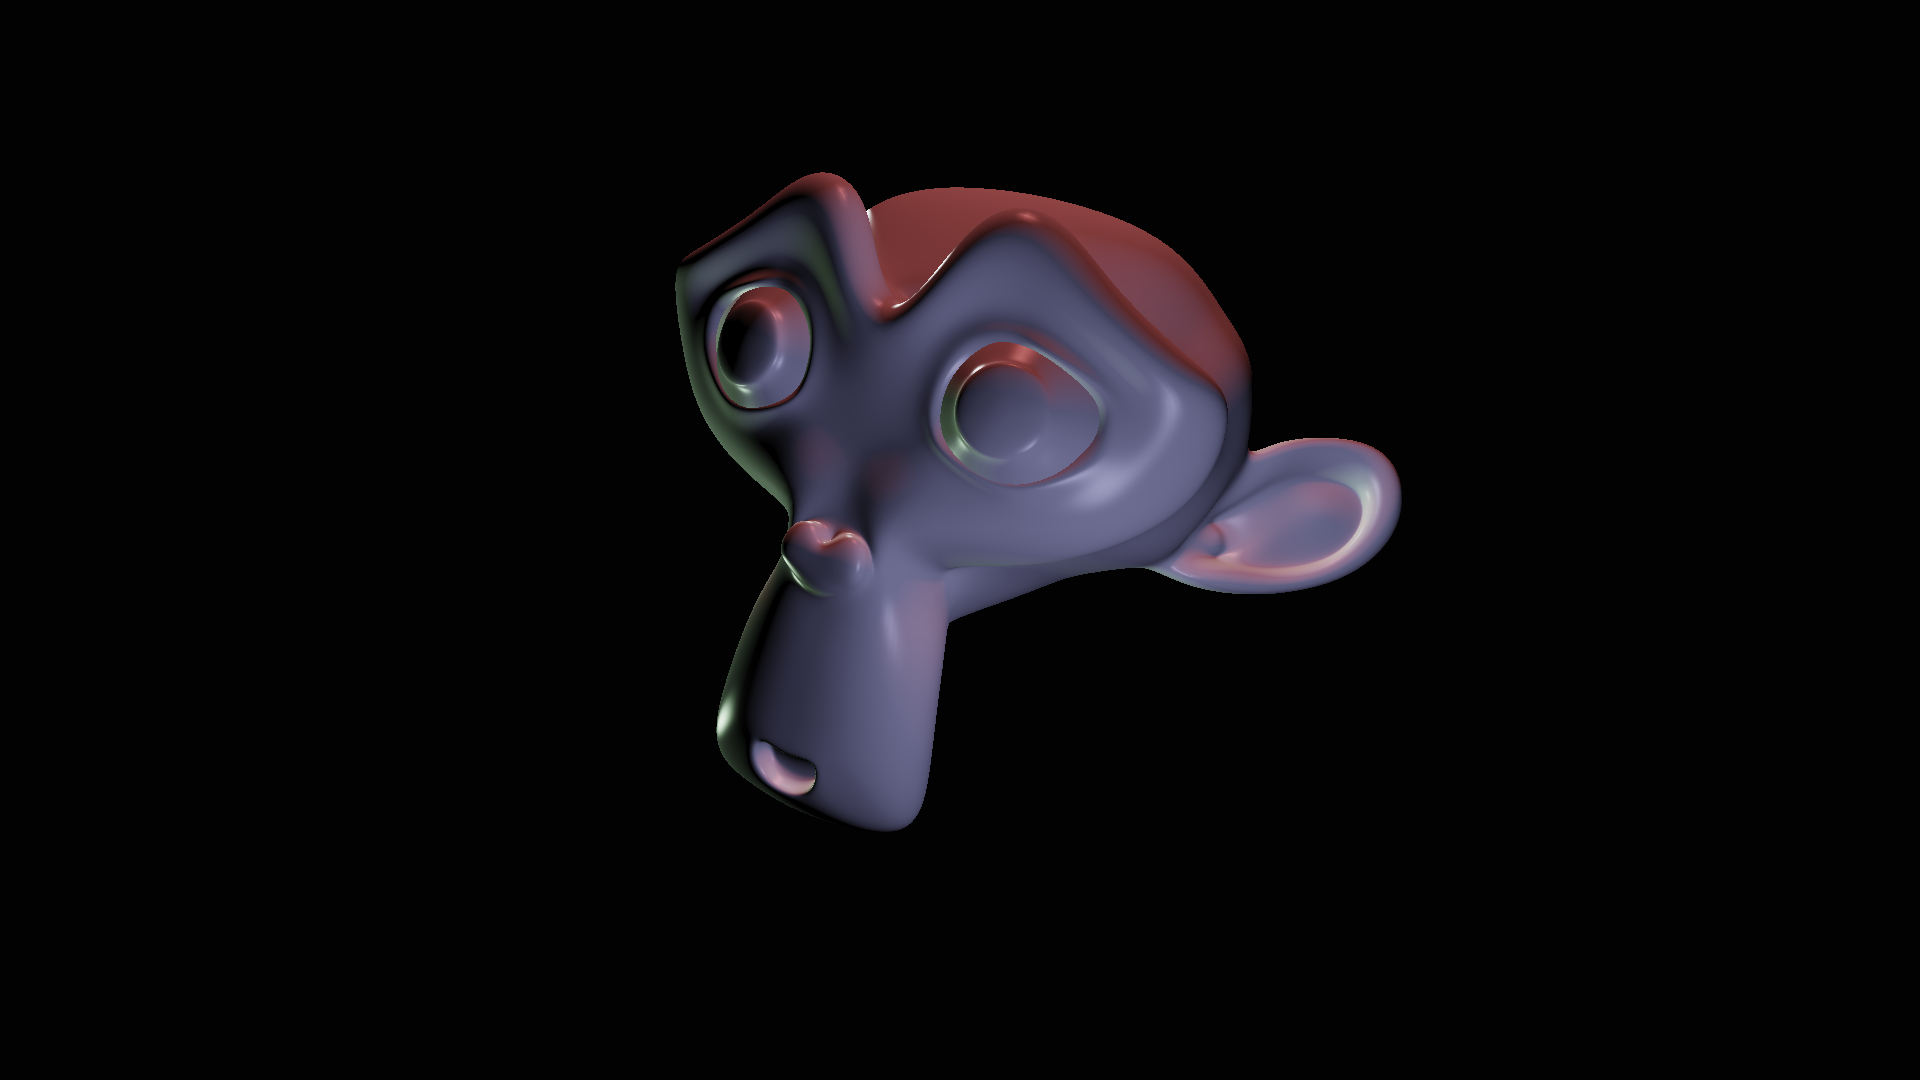
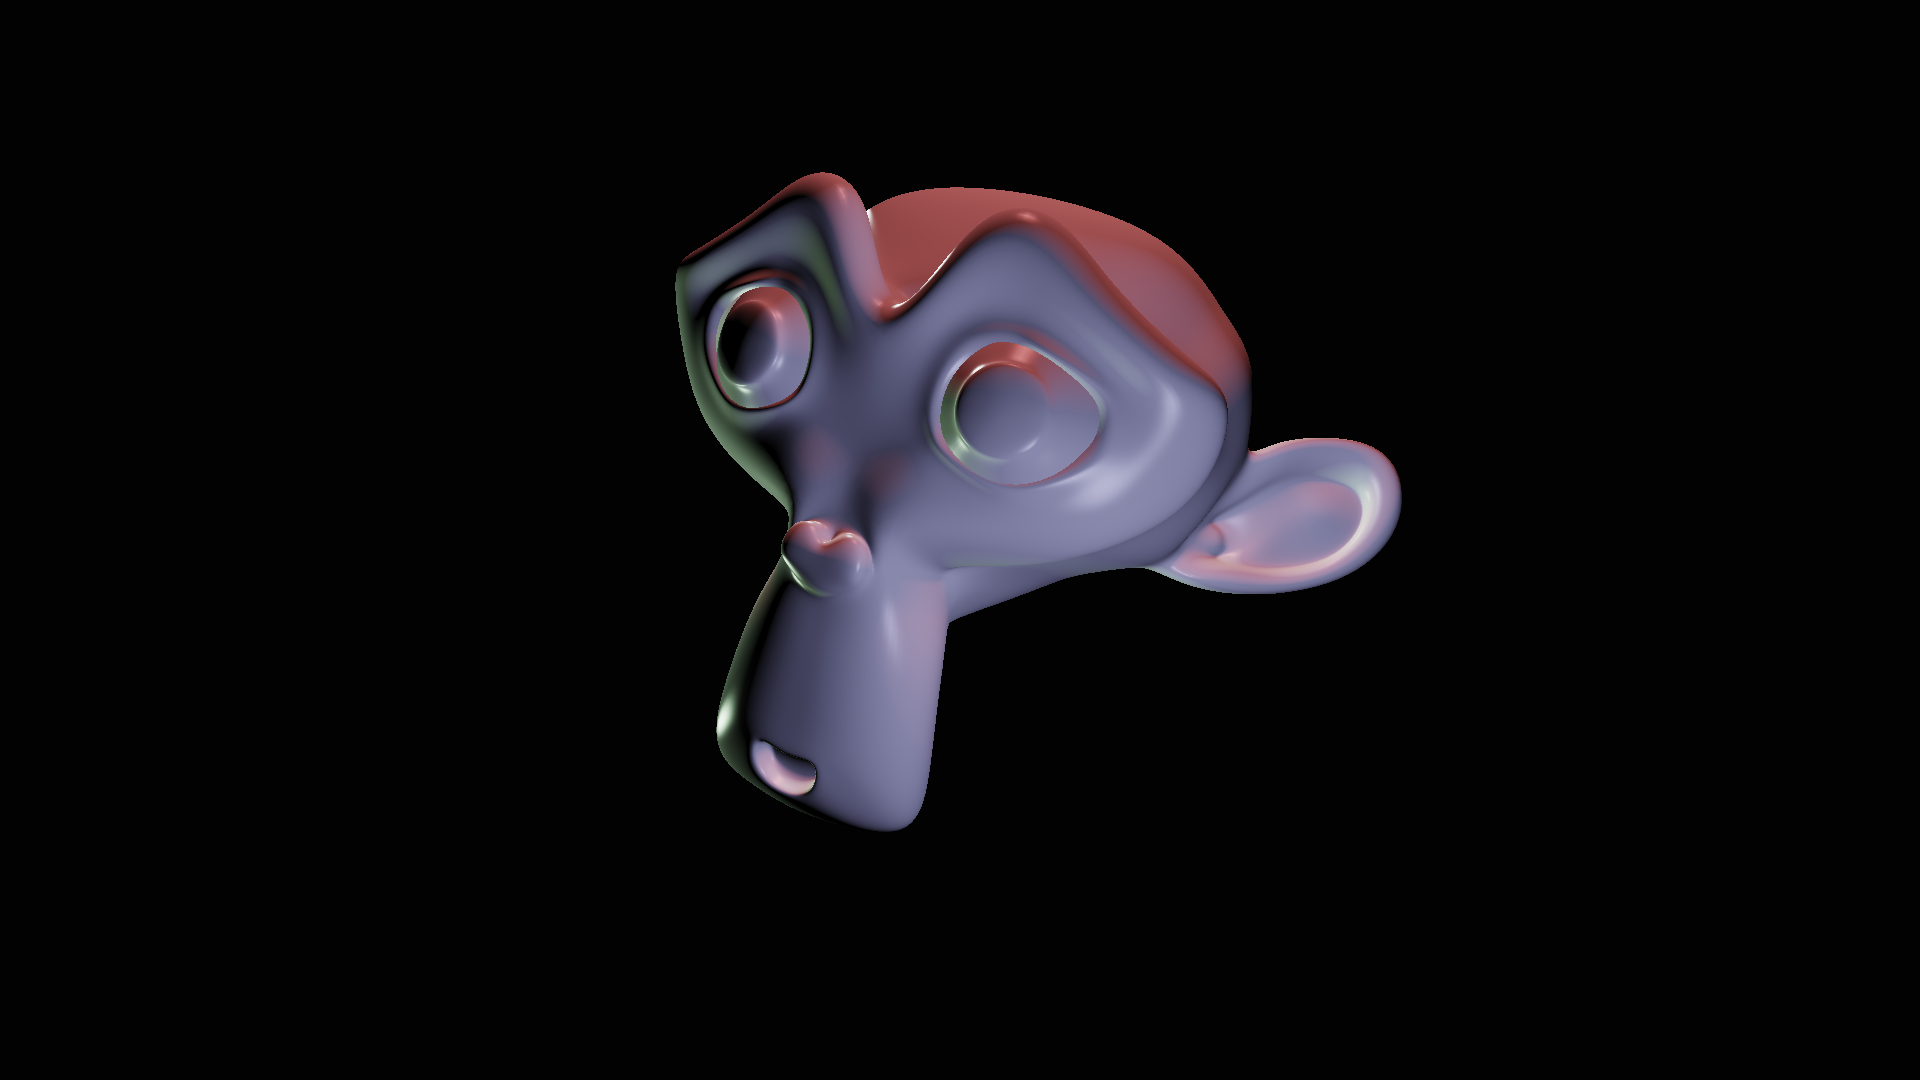
Increase brightness just a bit and add tiny explanation to readme

Changed region(s): [[0.3438, 0.1528, 0.75, 0.7639]]

diff --git a/full_example/src/main.rs b/full_example/src/main.rs
@@ -49,14 +49,14 @@ fn generate_global_uniforms(aspect_ratio: f32) -> GlobalUniforms {
         view: view,
         projection: projection,
         lights: vec![
-            Light::new_white(Point3::new(light_scale * -1.0, light_scale * 1.0, light_scale * -1.0), 6.0),
-            Light::new(Point3::new(light_scale * 1.0, light_scale * 1.0, light_scale * 1.0), 6.0, Color {
+            Light::new_white(Point3::new(light_scale * -1.0, light_scale * 1.0, light_scale * -1.0), 9.0),
+            Light::new(Point3::new(light_scale * 1.0, light_scale * 1.0, light_scale * 1.0), 9.0, Color {
                 r: 0.6, g: 0.6, b: 1.0, a: 1.0,
             }),
-            Light::new(Point3::new(light_scale * 0.0, light_scale * 3.0, light_scale * -1.0), 6.0, Color {
+            Light::new(Point3::new(light_scale * 0.0, light_scale * 3.0, light_scale * -1.0), 9.0, Color {
                 r: 1.0, g: 0.3, b: 0.3, a: 1.0,
             }),
-            Light::new(Point3::new(light_scale * -2.0, light_scale * -1.0, light_scale * 1.0), 6.0, Color {
+            Light::new(Point3::new(light_scale * -2.0, light_scale * -1.0, light_scale * 1.0), 9.0, Color {
                 r: 0.7, g: 1.0, b: 0.7, a: 1.0,
             }),
         ]

diff --git a/full_example/README.md b/full_example/README.md
@@ -1,4 +1,8 @@
-softrender example
-=======================
+softrender example project
+==========================
 
 ![Suzanne Example](example.png)
+
+A relatively simple project demonstrating softrender's usage of meshes, uniforms, shaders and so forth.
+
+The shading is done with simple Lambertian diffuse and Blinn-Phong specular reflections of points lights.
